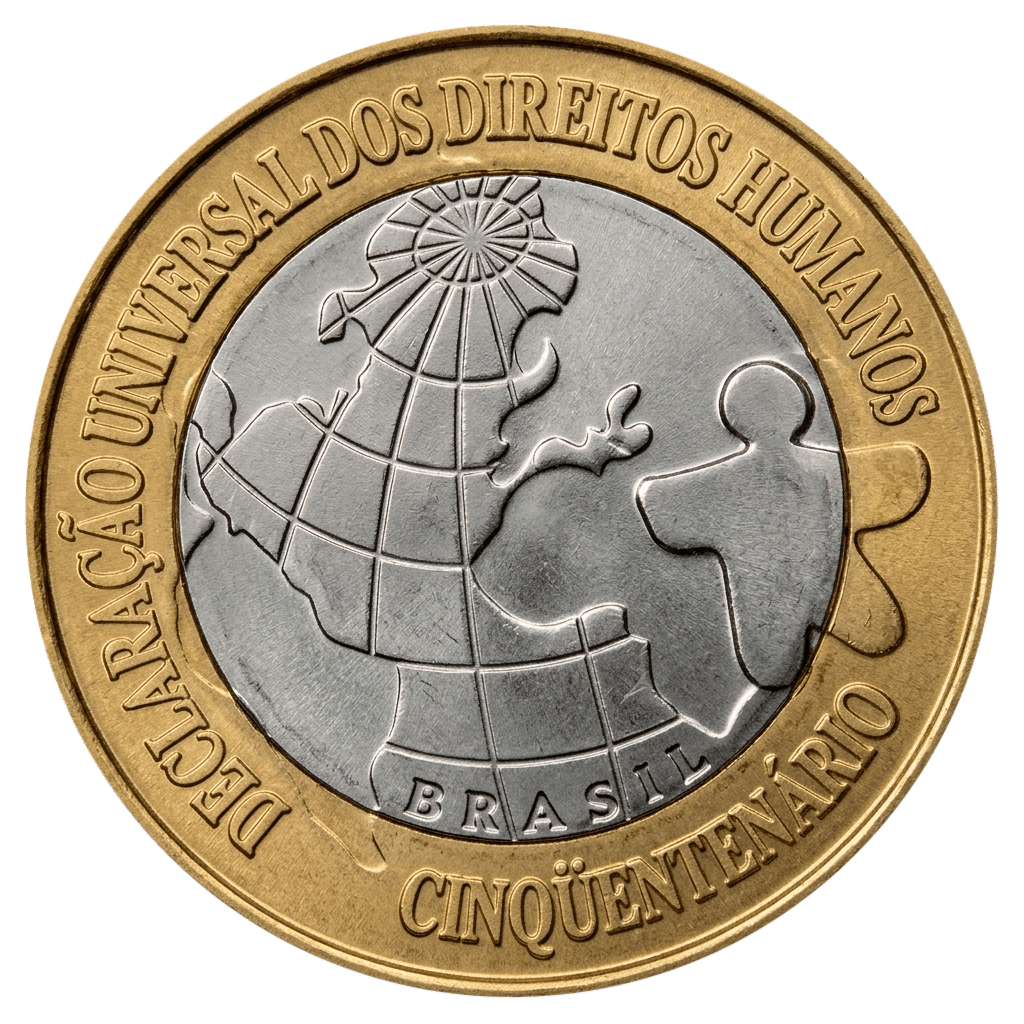
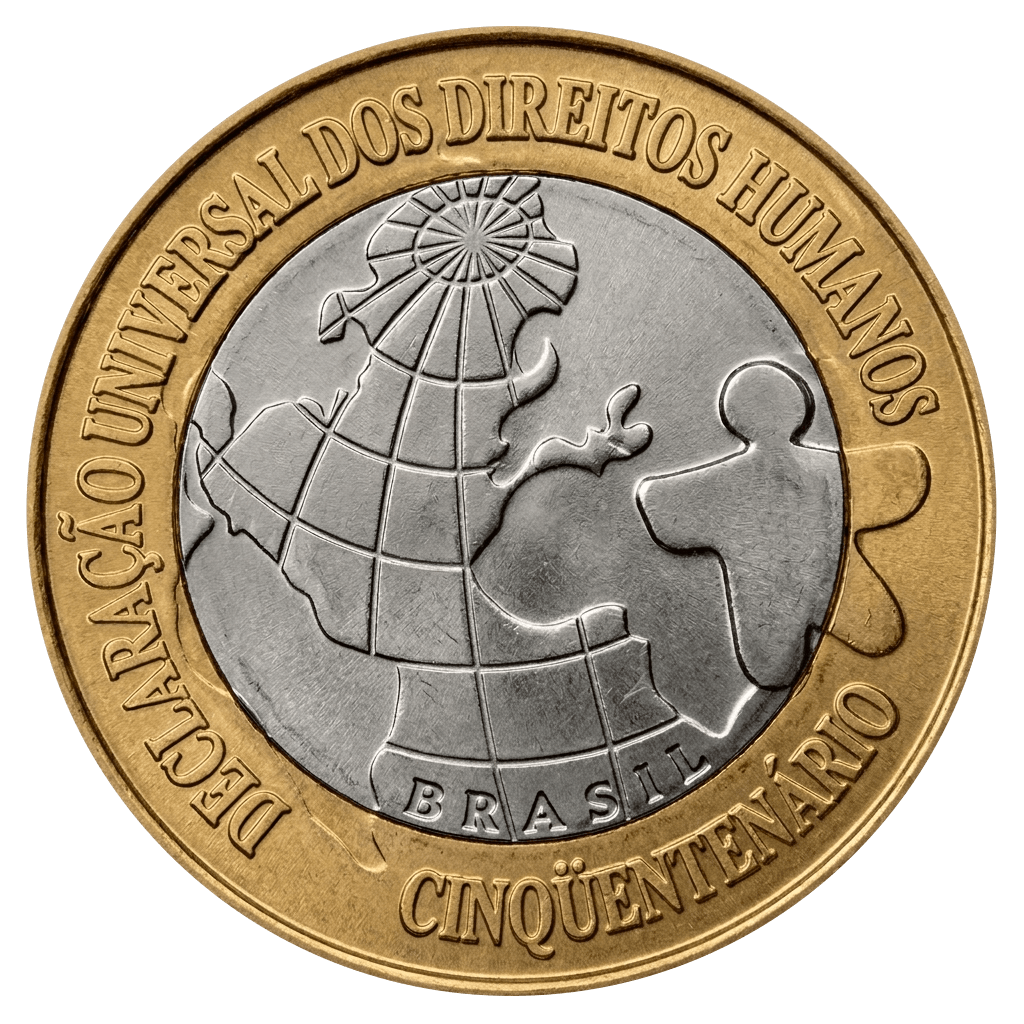
feat(ui): moedas flor de cunho 1024px, remocao do academy, fine-tuning de botoes e responsividade mobile

diff --git a/src/styles/landing.css b/src/styles/landing.css
@@ -176,14 +176,13 @@ html, body{
   display:flex;
   align-items:center;
   justify-content:center;
+  overflow:visible;
 }
 .landing-hero-coins-halo{
   position:absolute;
-  inset:4%;
+  inset:-10%;
   border-radius:50%;
-  background:radial-gradient(circle,rgba(201,162,75,.25) 0%,rgba(201,162,75,.05) 55%,transparent 72%);
-  border:1px solid rgba(201,162,75,.28);
-  filter:blur(20px);
+  background:radial-gradient(ellipse at center, rgba(201,162,75,.22) 0%, rgba(201,162,75,.06) 45%, transparent 70%);
   pointer-events:none;
 }
 .landing-hero-coins-track{
@@ -204,6 +203,9 @@ html, body{
   width:100%;
   height:auto;
   object-fit:contain;
+  border-radius:50%;
+  filter:drop-shadow(0 14px 28px rgba(0,0,0,.75)) drop-shadow(0 0 16px rgba(201,162,75,.35));
+  will-change:transform,filter;
 }
 /* Moeda 1: Entrega da Bandeira 2012 — acima e à esquerda */
 .landing-coin-bandeira{
@@ -236,13 +238,13 @@ html, body{
 }
 @keyframes floatBandeira{
   0%{transform:rotate(-7deg) translateY(0);}
-  50%{transform:rotate(-5.5deg) translateY(-10px);}
-  100%{transform:rotate(-4deg) translateY(-18px);}
+  50%{transform:rotate(-5.5deg) translateY(-7px);}
+  100%{transform:rotate(-4deg) translateY(-14px);}
 }
 @keyframes floatDH{
   0%{transform:rotate(7deg) translateY(0);}
-  50%{transform:rotate(8.5deg) translateY(10px);}
-  100%{transform:rotate(10deg) translateY(18px);}
+  50%{transform:rotate(8.5deg) translateY(7px);}
+  100%{transform:rotate(10deg) translateY(14px);}
 }
 @keyframes lusterSweep{
   0%, 100%{
@@ -269,22 +271,23 @@ html, body{
 
 @media (max-width:600px){
   .landing-hero-coins{
-    max-width:300px;
-    height:230px;
+    max-width:320px;
+    height:280px;
+    overflow:visible;
   }
   .landing-coin-bandeira{
-    left:0;
-    top:0;
-    width:125px;
+    left:10px;
+    top:6px;
+    width:130px;
   }
   .landing-coin-dh{
-    right:0;
-    bottom:0;
-    width:125px;
+    right:10px;
+    bottom:14px;
+    width:130px;
   }
   .landing-coin-caption{
-    font-size:9px;
-    padding:2px 7px;
+    font-size:9.5px;
+    padding:3px 8px;
   }
 }
 
@@ -561,10 +564,9 @@ html, body{
 }
 .landing-specimen-halo{
   position:absolute;
-  inset:10px;
+  inset:0;
   border-radius:50%;
-  background:radial-gradient(circle,rgba(201,162,75,.2) 0%,rgba(201,162,75,.04) 60%,transparent 75%);
-  filter:blur(16px);
+  background:radial-gradient(circle at center,rgba(201,162,75,.2) 0%,rgba(201,162,75,.04) 50%,transparent 72%);
   pointer-events:none;
 }
 .landing-specimen-coin-stage{
@@ -580,6 +582,7 @@ html, body{
   width:240px;
   height:240px;
   object-fit:contain;
+  border-radius:50%;
   filter:drop-shadow(0 16px 36px rgba(0,0,0,.75)) drop-shadow(0 0 16px rgba(201,162,75,.35));
   animation:specimenPulse 6s ease-in-out infinite alternate;
   transition:transform .4s cubic-bezier(.16,1,.3,1),filter .4s ease;
@@ -1444,19 +1447,19 @@ html, body{
     font-size:14px;
   }
   .landing-hero-coins{
-    max-width:280px;
-    height:220px;
-    overflow:hidden;
+    max-width:290px;
+    height:280px;
+    overflow:visible;
   }
   .landing-coin-bandeira{
-    left:4px;
-    top:0;
-    width:115px;
+    left:6px;
+    top:6px;
+    width:120px;
   }
   .landing-coin-dh{
-    right:4px;
-    bottom:0;
-    width:115px;
+    right:6px;
+    bottom:14px;
+    width:120px;
   }
   .landing-coin-caption{
     font-size:9px;

diff --git a/src/styles/base.css b/src/styles/base.css
@@ -51,17 +51,21 @@ textarea.obs:focus{border-color:var(--gold);box-shadow:0 0 0 3px rgba(201,162,75
 /* ---- Botões -------------------------------------------------------------- */
 .btn{
   display:inline-flex;align-items:center;justify-content:center;gap:8px;
-  min-height:44px;padding:12px 22px;border-radius:8px;border:none;cursor:pointer;
+  min-height:44px;padding:12px 22px;border-radius:9px;border:none;cursor:pointer;
   font-family:var(--ff-sans);font-size:15px;font-weight:700;
-  transition:transform .12s ease,box-shadow .2s ease,opacity .2s ease,filter .2s ease;
+  position:relative;
+  transition:transform .15s cubic-bezier(.16,1,.3,1),box-shadow .2s ease,opacity .2s ease,filter .2s ease,background-color .2s ease;
+  user-select:none;
+  -webkit-tap-highlight-color:transparent;
 }
-.btn:hover:not([disabled]){transform:translateY(-1px)}
-.btn:active{transform:translateY(1px)}
-.btn-gold{background:linear-gradient(180deg,var(--gold-bright),var(--gold));color:var(--on-gold);width:100%;box-shadow:0 4px 14px rgba(201,162,75,.22)}
-.btn-gold:hover:not([disabled]){box-shadow:var(--shadow-gold-hover);filter:brightness(1.03)}
+.btn:hover:not([disabled]){transform:translateY(-2px)}
+.btn:active:not([disabled]){transform:translateY(1px) scale(0.985)}
+.btn:focus-visible{outline:2px solid var(--gold);outline-offset:3px}
+.btn-gold{background:linear-gradient(180deg,var(--gold-bright),var(--gold));color:var(--on-gold);width:100%;box-shadow:0 4px 16px rgba(201,162,75,.28)}
+.btn-gold:hover:not([disabled]){box-shadow:0 6px 22px rgba(201,162,75,.4), 0 0 14px rgba(227,185,92,.25);filter:brightness(1.04)}
 .btn-outline{background:transparent;border:1px solid var(--gold);color:var(--gold)}
-.btn-outline:hover:not([disabled]){background:var(--gold-wash);box-shadow:0 4px 12px rgba(201,162,75,.12)}
-.btn[disabled]{opacity:.45;cursor:not-allowed}
+.btn-outline:hover:not([disabled]){background:var(--gold-wash);border-color:var(--gold-bright);box-shadow:0 4px 14px rgba(201,162,75,.15)}
+.btn[disabled]{opacity:.45;cursor:not-allowed;transform:none !important;box-shadow:none !important}
 
 /* ---- Interruptor (tema na topbar, notificações nas configurações) --------- */
 .switch{position:relative;width:46px;height:24px;background:var(--line-soft);border-radius:24px;cursor:pointer;transition:background .25s;border:1px solid var(--line-soft)}

diff --git a/src/styles/home.css b/src/styles/home.css
@@ -60,7 +60,16 @@
 }
 .moeda-bloco:hover{transform:translateY(-3px);border-color:var(--gold);box-shadow:0 10px 24px rgba(0,0,0,.25),0 0 16px rgba(201,162,75,.1)}
 .moeda-bloco-foto{flex-shrink:0;width:150px;height:150px}
-.moeda-bloco-foto img{width:100%;height:100%;object-fit:contain;filter:drop-shadow(0 8px 14px rgba(0,0,0,.45))}
+.moeda-bloco-foto img{
+  width:100%;height:100%;object-fit:contain;border-radius:50%;
+  filter:drop-shadow(0 10px 20px rgba(0,0,0,.5)) drop-shadow(0 0 14px rgba(201,162,75,.25));
+  transition:transform .35s cubic-bezier(.16,1,.3,1),filter .35s ease;
+  will-change:transform,filter;
+}
+.moeda-bloco:hover .moeda-bloco-foto img{
+  transform:scale(1.08) rotate(3deg);
+  filter:drop-shadow(0 14px 28px rgba(0,0,0,.6)) drop-shadow(0 0 20px rgba(227,185,92,.45));
+}
 .moeda-bloco-tx{min-width:0}
 .moeda-bloco-tx h3{font-size:21px;color:var(--text-strong);font-weight:600;margin-bottom:8px}
 .moeda-bloco-tx p{font-size:13.5px;color:var(--text-muted);line-height:1.45}

diff --git a/src/components/landing/LandingPage.tsx b/src/components/landing/LandingPage.tsx
@@ -431,8 +431,8 @@ export function LandingPage(): ReactNode {
             recibo do item sem precisar resgatá-lo fisicamente.&rdquo;
           </blockquote>
           <div className="landing-positioning-actions">
-            <Link className="landing-link-academy" href="/academy">
-              Entenda em detalhes no Real Olímpico Academy &rarr;
+            <Link className="landing-link-academy" href="/termos">
+              Consulte as diretrizes e termos de custódia &rarr;
             </Link>
           </div>
         </div>
@@ -448,7 +448,6 @@ export function LandingPage(): ReactNode {
           </p>
         </div>
         <nav aria-label="Informações institucionais e legais">
-          <Link href="/academy">Academy</Link>
           <Link href="/termos">Termos de Uso</Link>
           <Link href="/privacidade">Política de Privacidade</Link>
         </nav>
